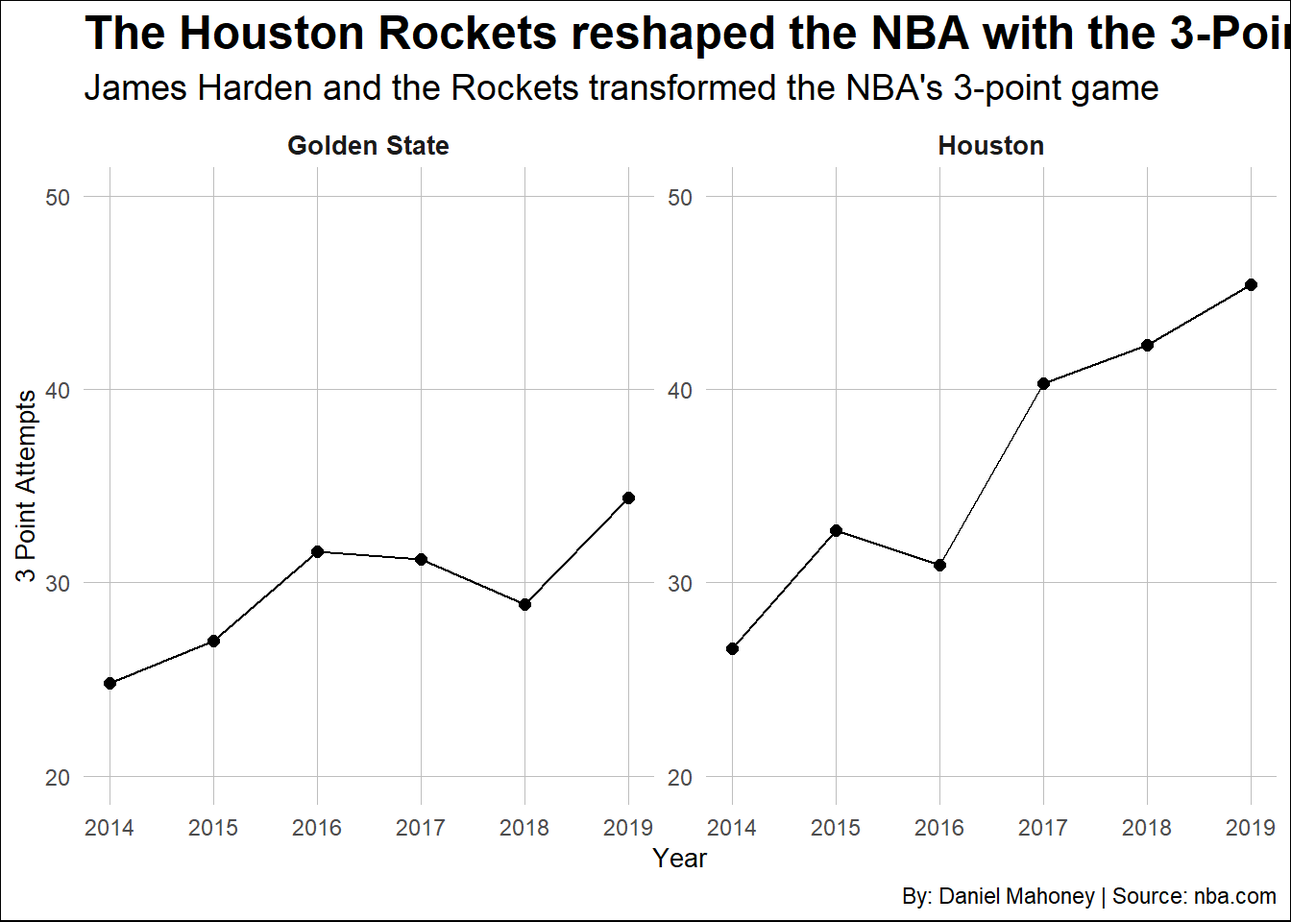
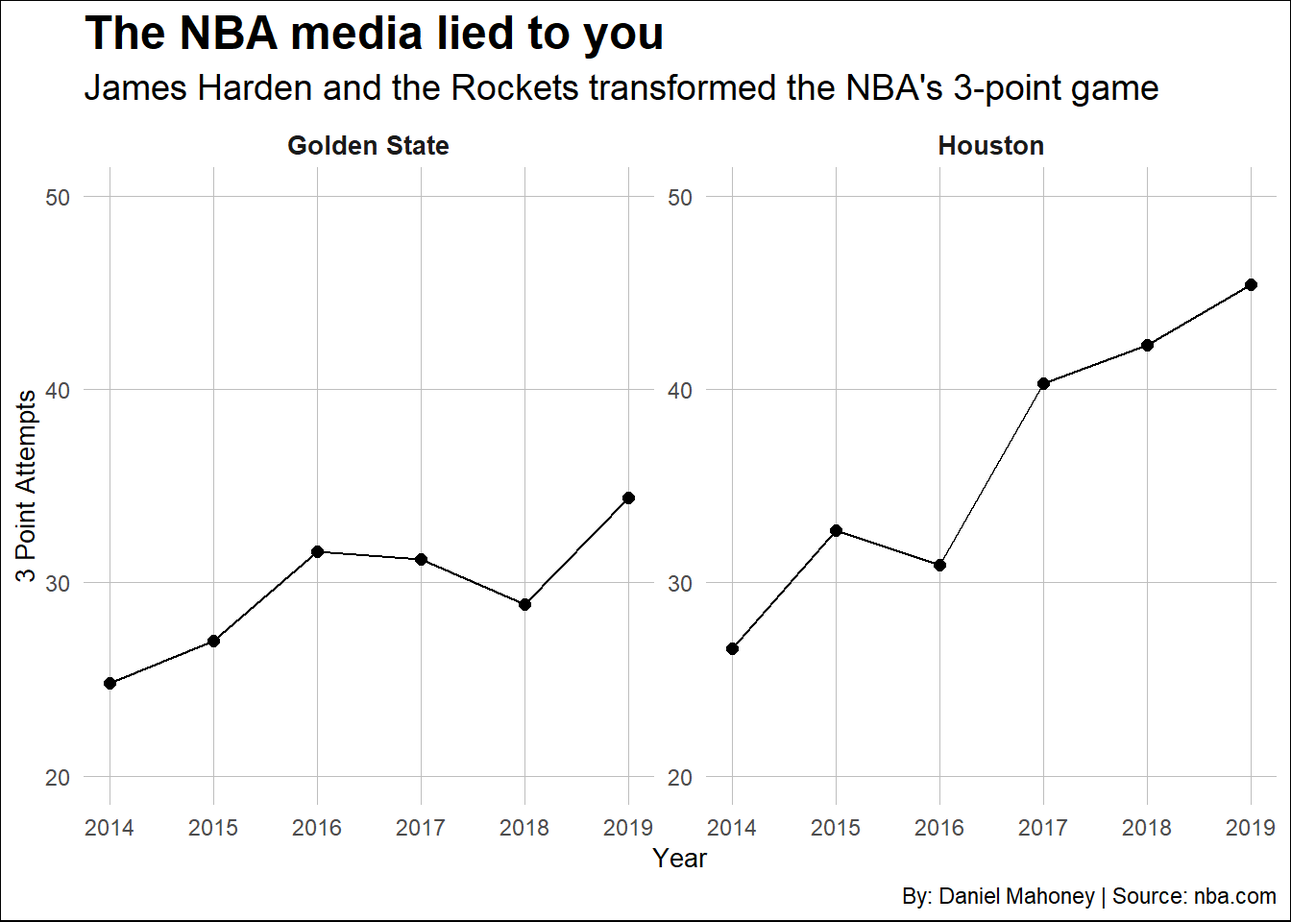
update index.html

Changed region(s): [[0.125, 0.0, 1.0, 0.0625]]

diff --git a/posts/three-point-revolution/index.html b/posts/three-point-revolution/index.html
@@ -220,7 +220,7 @@ pre > code.sourceCode > span > a:first-child::before { text-decoration: underlin
 <span id="cb1-18"><a href="#cb1-18" aria-hidden="true" tabindex="-1"></a>  <span class="fu">scale_y_continuous</span>(<span class="at">limits =</span> <span class="fu">c</span>(<span class="dv">20</span>, <span class="dv">50</span>)) <span class="sc">+</span>  </span>
 <span id="cb1-19"><a href="#cb1-19" aria-hidden="true" tabindex="-1"></a>  <span class="fu">facet_wrap</span>(<span class="sc">~</span>Team, <span class="at">scales =</span> <span class="st">"free_y"</span>, <span class="at">ncol =</span> <span class="dv">4</span>) <span class="sc">+</span>  </span>
 <span id="cb1-20"><a href="#cb1-20" aria-hidden="true" tabindex="-1"></a>  <span class="fu">labs</span>(</span>
-<span id="cb1-21"><a href="#cb1-21" aria-hidden="true" tabindex="-1"></a>    <span class="at">title =</span> <span class="st">"The Houston Rockets reshaped the NBA with the 3-Point Revolution"</span>,</span>
+<span id="cb1-21"><a href="#cb1-21" aria-hidden="true" tabindex="-1"></a>    <span class="at">title =</span> <span class="st">"The NBA media lied to you"</span>,</span>
 <span id="cb1-22"><a href="#cb1-22" aria-hidden="true" tabindex="-1"></a>    <span class="at">subtitle =</span> <span class="st">"James Harden and the Rockets transformed the NBA's 3-point game"</span>,</span>
 <span id="cb1-23"><a href="#cb1-23" aria-hidden="true" tabindex="-1"></a>    <span class="at">y =</span> <span class="st">"3 Point Attempts"</span>, <span class="at">x =</span> <span class="st">"Year"</span>,</span>
 <span id="cb1-24"><a href="#cb1-24" aria-hidden="true" tabindex="-1"></a>    <span class="at">caption =</span> <span class="st">"By: Daniel Mahoney | Source: nba.com"</span></span>
@@ -296,7 +296,7 @@ pre > code.sourceCode > span > a:first-child::before { text-decoration: underlin
 <span id="cb2-38"><a href="#cb2-38" aria-hidden="true" tabindex="-1"></a>  <span class="fu">labs</span>(</span>
 <span id="cb2-39"><a href="#cb2-39" aria-hidden="true" tabindex="-1"></a>    <span class="at">y =</span> <span class="st">"Three Point Attempts"</span>, <span class="at">x =</span> <span class="st">"Year"</span>,</span>
 <span id="cb2-40"><a href="#cb2-40" aria-hidden="true" tabindex="-1"></a>    <span class="at">title =</span> <span class="st">"No one took threes like the Houston Rockets"</span>,</span>
-<span id="cb2-41"><a href="#cb2-41" aria-hidden="true" tabindex="-1"></a>    <span class="at">subtitle =</span> <span class="st">"In the years 2014 to 2019, the Rockets were 1st in 3-pointers attempts five times in six years"</span>,</span>
+<span id="cb2-41"><a href="#cb2-41" aria-hidden="true" tabindex="-1"></a>    <span class="at">subtitle =</span> <span class="st">"The whole NBA followed the Houston Rockets"</span>,</span>
 <span id="cb2-42"><a href="#cb2-42" aria-hidden="true" tabindex="-1"></a>    <span class="at">caption =</span> <span class="st">"Source: basketball reference | By Daniel Mahoney"</span>,  </span>
 <span id="cb2-43"><a href="#cb2-43" aria-hidden="true" tabindex="-1"></a>    <span class="at">color =</span> <span class="st">"Label"</span>  </span>
 <span id="cb2-44"><a href="#cb2-44" aria-hidden="true" tabindex="-1"></a>  ) <span class="sc">+</span></span>
@@ -400,61 +400,96 @@ pre > code.sourceCode > span > a:first-child::before { text-decoration: underlin
 <details class="code-fold">
 <summary>Code</summary>
 <div class="sourceCode cell-code" id="cb3"><pre class="sourceCode r code-with-copy"><code class="sourceCode r"><span id="cb3-1"><a href="#cb3-1" aria-hidden="true" tabindex="-1"></a>GoodTeams <span class="ot">&lt;-</span> logs24 <span class="sc">|&gt;</span>  </span>
-<span id="cb3-2"><a href="#cb3-2" aria-hidden="true" tabindex="-1"></a>  <span class="fu">filter</span>(Wins <span class="sc">&gt;</span> <span class="dv">49</span>) <span class="sc">%&gt;%</span></span>
-<span id="cb3-3"><a href="#cb3-3" aria-hidden="true" tabindex="-1"></a>  <span class="fu">group_by</span>(Team)</span>
-<span id="cb3-4"><a href="#cb3-4" aria-hidden="true" tabindex="-1"></a><span class="fu">ggplot</span>() <span class="sc">+</span></span>
-<span id="cb3-5"><a href="#cb3-5" aria-hidden="true" tabindex="-1"></a>  <span class="fu">geom_point</span>(</span>
-<span id="cb3-6"><a href="#cb3-6" aria-hidden="true" tabindex="-1"></a>    <span class="at">data =</span> logs24,</span>
-<span id="cb3-7"><a href="#cb3-7" aria-hidden="true" tabindex="-1"></a>    <span class="fu">aes</span>(</span>
-<span id="cb3-8"><a href="#cb3-8" aria-hidden="true" tabindex="-1"></a>      <span class="at">x =</span> <span class="st">`</span><span class="at">3P Attempts</span><span class="st">`</span>, </span>
-<span id="cb3-9"><a href="#cb3-9" aria-hidden="true" tabindex="-1"></a>      <span class="at">y =</span> <span class="st">`</span><span class="at">3P Percentage</span><span class="st">`</span>, </span>
-<span id="cb3-10"><a href="#cb3-10" aria-hidden="true" tabindex="-1"></a>      <span class="at">size =</span> Wins</span>
-<span id="cb3-11"><a href="#cb3-11" aria-hidden="true" tabindex="-1"></a>    ),</span>
-<span id="cb3-12"><a href="#cb3-12" aria-hidden="true" tabindex="-1"></a>    <span class="at">alpha =</span> .<span class="dv">3</span></span>
-<span id="cb3-13"><a href="#cb3-13" aria-hidden="true" tabindex="-1"></a>  ) <span class="sc">+</span> </span>
-<span id="cb3-14"><a href="#cb3-14" aria-hidden="true" tabindex="-1"></a>  <span class="fu">geom_point</span>(</span>
-<span id="cb3-15"><a href="#cb3-15" aria-hidden="true" tabindex="-1"></a>    <span class="at">data =</span> GoodTeams, </span>
-<span id="cb3-16"><a href="#cb3-16" aria-hidden="true" tabindex="-1"></a>    <span class="fu">aes</span>(</span>
-<span id="cb3-17"><a href="#cb3-17" aria-hidden="true" tabindex="-1"></a>      <span class="at">x =</span> <span class="st">`</span><span class="at">3P Attempts</span><span class="st">`</span>, </span>
-<span id="cb3-18"><a href="#cb3-18" aria-hidden="true" tabindex="-1"></a>      <span class="at">y =</span> <span class="st">`</span><span class="at">3P Percentage</span><span class="st">`</span>, </span>
-<span id="cb3-19"><a href="#cb3-19" aria-hidden="true" tabindex="-1"></a>      <span class="at">size =</span> Wins</span>
-<span id="cb3-20"><a href="#cb3-20" aria-hidden="true" tabindex="-1"></a>    ),</span>
-<span id="cb3-21"><a href="#cb3-21" aria-hidden="true" tabindex="-1"></a>    <span class="at">alpha =</span> .<span class="dv">3</span>,</span>
-<span id="cb3-22"><a href="#cb3-22" aria-hidden="true" tabindex="-1"></a>    <span class="at">color =</span> <span class="st">"blue"</span></span>
-<span id="cb3-23"><a href="#cb3-23" aria-hidden="true" tabindex="-1"></a>  ) <span class="sc">+</span> </span>
-<span id="cb3-24"><a href="#cb3-24" aria-hidden="true" tabindex="-1"></a>  <span class="fu">geom_text_repel</span>(</span>
-<span id="cb3-25"><a href="#cb3-25" aria-hidden="true" tabindex="-1"></a>    <span class="at">data =</span> GoodTeams,  </span>
-<span id="cb3-26"><a href="#cb3-26" aria-hidden="true" tabindex="-1"></a>    <span class="fu">aes</span>(</span>
-<span id="cb3-27"><a href="#cb3-27" aria-hidden="true" tabindex="-1"></a>      <span class="at">x =</span> <span class="st">`</span><span class="at">3P Attempts</span><span class="st">`</span>, </span>
-<span id="cb3-28"><a href="#cb3-28" aria-hidden="true" tabindex="-1"></a>      <span class="at">y =</span> <span class="st">`</span><span class="at">3P Percentage</span><span class="st">`</span>, </span>
-<span id="cb3-29"><a href="#cb3-29" aria-hidden="true" tabindex="-1"></a>      <span class="at">label =</span> Team</span>
-<span id="cb3-30"><a href="#cb3-30" aria-hidden="true" tabindex="-1"></a>    )</span>
-<span id="cb3-31"><a href="#cb3-31" aria-hidden="true" tabindex="-1"></a>  ) <span class="sc">+</span></span>
-<span id="cb3-32"><a href="#cb3-32" aria-hidden="true" tabindex="-1"></a>  <span class="fu">scale_size_continuous</span>(</span>
-<span id="cb3-33"><a href="#cb3-33" aria-hidden="true" tabindex="-1"></a>    <span class="at">breaks =</span> <span class="fu">c</span>(<span class="dv">45</span>, <span class="dv">50</span>, <span class="dv">55</span>, <span class="dv">60</span>),</span>
-<span id="cb3-34"><a href="#cb3-34" aria-hidden="true" tabindex="-1"></a>    <span class="at">labels =</span> <span class="fu">c</span>(<span class="st">"45"</span>, <span class="st">"50"</span>, <span class="st">"55"</span>, <span class="st">"60"</span>),</span>
-<span id="cb3-35"><a href="#cb3-35" aria-hidden="true" tabindex="-1"></a>    <span class="at">range =</span> <span class="fu">c</span>(<span class="dv">2</span>, <span class="dv">6</span>)</span>
-<span id="cb3-36"><a href="#cb3-36" aria-hidden="true" tabindex="-1"></a>  ) <span class="sc">+</span></span>
-<span id="cb3-37"><a href="#cb3-37" aria-hidden="true" tabindex="-1"></a>  <span class="fu">labs</span>(</span>
-<span id="cb3-38"><a href="#cb3-38" aria-hidden="true" tabindex="-1"></a>    <span class="at">x =</span> <span class="st">"Three Point Attempts"</span>,</span>
-<span id="cb3-39"><a href="#cb3-39" aria-hidden="true" tabindex="-1"></a>    <span class="at">y =</span> <span class="st">"Three Point Percentage"</span>,</span>
-<span id="cb3-40"><a href="#cb3-40" aria-hidden="true" tabindex="-1"></a>    <span class="at">title =</span> <span class="st">"While the NBA has evolved, the best teams still have their own identity"</span>,</span>
-<span id="cb3-41"><a href="#cb3-41" aria-hidden="true" tabindex="-1"></a>    <span class="at">subtitle =</span> <span class="st">"The most successful NBA teams have an identity shaped by their players"</span>,</span>
-<span id="cb3-42"><a href="#cb3-42" aria-hidden="true" tabindex="-1"></a>    <span class="at">caption =</span> <span class="st">"Source: nba.com | By Daniel Mahoney"</span>,</span>
-<span id="cb3-43"><a href="#cb3-43" aria-hidden="true" tabindex="-1"></a>    <span class="at">size =</span> <span class="st">"Wins"</span></span>
-<span id="cb3-44"><a href="#cb3-44" aria-hidden="true" tabindex="-1"></a>  ) <span class="sc">+</span></span>
-<span id="cb3-45"><a href="#cb3-45" aria-hidden="true" tabindex="-1"></a>  <span class="fu">guides</span>(<span class="at">size =</span> <span class="fu">guide_legend</span>(<span class="at">title =</span> <span class="st">"Wins"</span>, <span class="at">override.aes =</span> <span class="fu">list</span>(<span class="at">color =</span> <span class="st">"#333333"</span>))) <span class="sc">+</span></span>
-<span id="cb3-46"><a href="#cb3-46" aria-hidden="true" tabindex="-1"></a>  <span class="fu">theme_minimal</span>() <span class="sc">+</span></span>
-<span id="cb3-47"><a href="#cb3-47" aria-hidden="true" tabindex="-1"></a>  <span class="fu">theme</span>(</span>
-<span id="cb3-48"><a href="#cb3-48" aria-hidden="true" tabindex="-1"></a>    <span class="at">plot.title =</span> <span class="fu">element_text</span>(<span class="at">size =</span> <span class="dv">18</span>, <span class="at">face =</span> <span class="st">"bold"</span>), </span>
-<span id="cb3-49"><a href="#cb3-49" aria-hidden="true" tabindex="-1"></a>    <span class="at">plot.background =</span> <span class="fu">element_rect</span>(<span class="at">fill =</span> <span class="st">"white"</span>),</span>
-<span id="cb3-50"><a href="#cb3-50" aria-hidden="true" tabindex="-1"></a>    <span class="at">plot.subtitle =</span> <span class="fu">element_text</span>(<span class="at">size =</span> <span class="dv">14</span>),  </span>
-<span id="cb3-51"><a href="#cb3-51" aria-hidden="true" tabindex="-1"></a>    <span class="at">axis.title =</span> <span class="fu">element_text</span>(<span class="at">size =</span> <span class="dv">10</span>),  </span>
-<span id="cb3-52"><a href="#cb3-52" aria-hidden="true" tabindex="-1"></a>    <span class="at">axis.text =</span> <span class="fu">element_text</span>(<span class="at">size =</span> <span class="dv">9</span>),  </span>
-<span id="cb3-53"><a href="#cb3-53" aria-hidden="true" tabindex="-1"></a>    <span class="at">strip.text =</span> <span class="fu">element_text</span>(<span class="at">size =</span> <span class="dv">10</span>, <span class="at">face =</span> <span class="st">"bold"</span>),  </span>
-<span id="cb3-54"><a href="#cb3-54" aria-hidden="true" tabindex="-1"></a>    <span class="at">panel.grid.minor =</span> <span class="fu">element_blank</span>(),  </span>
-<span id="cb3-55"><a href="#cb3-55" aria-hidden="true" tabindex="-1"></a>    <span class="at">panel.grid.major =</span> <span class="fu">element_line</span>(<span class="at">color =</span> <span class="st">"gray"</span>, <span class="at">size =</span> <span class="fl">0.2</span>)  </span>
-<span id="cb3-56"><a href="#cb3-56" aria-hidden="true" tabindex="-1"></a>  )</span></code><button title="Copy to Clipboard" class="code-copy-button"><i class="bi"></i></button></pre></div>
+<span id="cb3-2"><a href="#cb3-2" aria-hidden="true" tabindex="-1"></a>  <span class="fu">filter</span>(Wins <span class="sc">&gt;</span> <span class="dv">49</span>)</span>
+<span id="cb3-3"><a href="#cb3-3" aria-hidden="true" tabindex="-1"></a>Boston <span class="ot">&lt;-</span> GoodTeams <span class="sc">|&gt;</span>  </span>
+<span id="cb3-4"><a href="#cb3-4" aria-hidden="true" tabindex="-1"></a>  <span class="fu">filter</span>(Wins <span class="sc">&gt;</span> <span class="dv">62</span>)</span>
+<span id="cb3-5"><a href="#cb3-5" aria-hidden="true" tabindex="-1"></a><span class="fu">ggplot</span>() <span class="sc">+</span></span>
+<span id="cb3-6"><a href="#cb3-6" aria-hidden="true" tabindex="-1"></a>  <span class="fu">geom_point</span>(</span>
+<span id="cb3-7"><a href="#cb3-7" aria-hidden="true" tabindex="-1"></a>    <span class="at">data =</span> logs24,</span>
+<span id="cb3-8"><a href="#cb3-8" aria-hidden="true" tabindex="-1"></a>    <span class="fu">aes</span>(</span>
+<span id="cb3-9"><a href="#cb3-9" aria-hidden="true" tabindex="-1"></a>      <span class="at">x =</span> <span class="st">`</span><span class="at">3P Attempts</span><span class="st">`</span>, </span>
+<span id="cb3-10"><a href="#cb3-10" aria-hidden="true" tabindex="-1"></a>      <span class="at">y =</span> <span class="st">`</span><span class="at">3P Percentage</span><span class="st">`</span>, </span>
+<span id="cb3-11"><a href="#cb3-11" aria-hidden="true" tabindex="-1"></a>      <span class="at">size =</span> Wins</span>
+<span id="cb3-12"><a href="#cb3-12" aria-hidden="true" tabindex="-1"></a>    ),</span>
+<span id="cb3-13"><a href="#cb3-13" aria-hidden="true" tabindex="-1"></a>    <span class="at">alpha =</span> .<span class="dv">3</span></span>
+<span id="cb3-14"><a href="#cb3-14" aria-hidden="true" tabindex="-1"></a>  ) <span class="sc">+</span> </span>
+<span id="cb3-15"><a href="#cb3-15" aria-hidden="true" tabindex="-1"></a>  <span class="fu">geom_point</span>(</span>
+<span id="cb3-16"><a href="#cb3-16" aria-hidden="true" tabindex="-1"></a>    <span class="at">data =</span> GoodTeams, </span>
+<span id="cb3-17"><a href="#cb3-17" aria-hidden="true" tabindex="-1"></a>    <span class="fu">aes</span>(</span>
+<span id="cb3-18"><a href="#cb3-18" aria-hidden="true" tabindex="-1"></a>      <span class="at">x =</span> <span class="st">`</span><span class="at">3P Attempts</span><span class="st">`</span>, </span>
+<span id="cb3-19"><a href="#cb3-19" aria-hidden="true" tabindex="-1"></a>      <span class="at">y =</span> <span class="st">`</span><span class="at">3P Percentage</span><span class="st">`</span>, </span>
+<span id="cb3-20"><a href="#cb3-20" aria-hidden="true" tabindex="-1"></a>      <span class="at">size =</span> Wins</span>
+<span id="cb3-21"><a href="#cb3-21" aria-hidden="true" tabindex="-1"></a>    ),</span>
+<span id="cb3-22"><a href="#cb3-22" aria-hidden="true" tabindex="-1"></a>    <span class="at">alpha =</span> .<span class="dv">3</span>,</span>
+<span id="cb3-23"><a href="#cb3-23" aria-hidden="true" tabindex="-1"></a>    <span class="at">color =</span> <span class="st">"blue"</span></span>
+<span id="cb3-24"><a href="#cb3-24" aria-hidden="true" tabindex="-1"></a>  ) <span class="sc">+</span> </span>
+<span id="cb3-25"><a href="#cb3-25" aria-hidden="true" tabindex="-1"></a>  <span class="fu">geom_point</span>(</span>
+<span id="cb3-26"><a href="#cb3-26" aria-hidden="true" tabindex="-1"></a>    <span class="at">data =</span> Boston, </span>
+<span id="cb3-27"><a href="#cb3-27" aria-hidden="true" tabindex="-1"></a>    <span class="fu">aes</span>(</span>
+<span id="cb3-28"><a href="#cb3-28" aria-hidden="true" tabindex="-1"></a>      <span class="at">x =</span> <span class="st">`</span><span class="at">3P Attempts</span><span class="st">`</span>, </span>
+<span id="cb3-29"><a href="#cb3-29" aria-hidden="true" tabindex="-1"></a>      <span class="at">y =</span> <span class="st">`</span><span class="at">3P Percentage</span><span class="st">`</span>, </span>
+<span id="cb3-30"><a href="#cb3-30" aria-hidden="true" tabindex="-1"></a>      <span class="at">size =</span> Wins</span>
+<span id="cb3-31"><a href="#cb3-31" aria-hidden="true" tabindex="-1"></a>    ),</span>
+<span id="cb3-32"><a href="#cb3-32" aria-hidden="true" tabindex="-1"></a>    <span class="at">alpha =</span> .<span class="dv">3</span>,  </span>
+<span id="cb3-33"><a href="#cb3-33" aria-hidden="true" tabindex="-1"></a>    <span class="at">color =</span> <span class="st">"green"</span></span>
+<span id="cb3-34"><a href="#cb3-34" aria-hidden="true" tabindex="-1"></a>  ) <span class="sc">+</span> </span>
+<span id="cb3-35"><a href="#cb3-35" aria-hidden="true" tabindex="-1"></a>  <span class="fu">geom_text_repel</span>(</span>
+<span id="cb3-36"><a href="#cb3-36" aria-hidden="true" tabindex="-1"></a>    <span class="at">data =</span> GoodTeams,  </span>
+<span id="cb3-37"><a href="#cb3-37" aria-hidden="true" tabindex="-1"></a>    <span class="fu">aes</span>(</span>
+<span id="cb3-38"><a href="#cb3-38" aria-hidden="true" tabindex="-1"></a>      <span class="at">x =</span> <span class="st">`</span><span class="at">3P Attempts</span><span class="st">`</span>, </span>
+<span id="cb3-39"><a href="#cb3-39" aria-hidden="true" tabindex="-1"></a>      <span class="at">y =</span> <span class="st">`</span><span class="at">3P Percentage</span><span class="st">`</span>, </span>
+<span id="cb3-40"><a href="#cb3-40" aria-hidden="true" tabindex="-1"></a>      <span class="at">label =</span> Team</span>
+<span id="cb3-41"><a href="#cb3-41" aria-hidden="true" tabindex="-1"></a>    ),</span>
+<span id="cb3-42"><a href="#cb3-42" aria-hidden="true" tabindex="-1"></a>    <span class="at">box.padding =</span> <span class="fl">0.5</span>,</span>
+<span id="cb3-43"><a href="#cb3-43" aria-hidden="true" tabindex="-1"></a>    <span class="at">point.padding =</span> <span class="fl">0.5</span>,</span>
+<span id="cb3-44"><a href="#cb3-44" aria-hidden="true" tabindex="-1"></a>    <span class="at">max.overlaps =</span> <span class="dv">10</span></span>
+<span id="cb3-45"><a href="#cb3-45" aria-hidden="true" tabindex="-1"></a>  ) <span class="sc">+</span></span>
+<span id="cb3-46"><a href="#cb3-46" aria-hidden="true" tabindex="-1"></a>  <span class="fu">scale_size_continuous</span>(</span>
+<span id="cb3-47"><a href="#cb3-47" aria-hidden="true" tabindex="-1"></a>    <span class="at">breaks =</span> <span class="fu">c</span>(<span class="dv">45</span>, <span class="dv">50</span>, <span class="dv">55</span>, <span class="dv">60</span>),</span>
+<span id="cb3-48"><a href="#cb3-48" aria-hidden="true" tabindex="-1"></a>    <span class="at">labels =</span> <span class="fu">c</span>(<span class="st">"45"</span>, <span class="st">"50"</span>, <span class="st">"55"</span>, <span class="st">"60"</span>),</span>
+<span id="cb3-49"><a href="#cb3-49" aria-hidden="true" tabindex="-1"></a>    <span class="at">range =</span> <span class="fu">c</span>(<span class="dv">2</span>, <span class="dv">6</span>)</span>
+<span id="cb3-50"><a href="#cb3-50" aria-hidden="true" tabindex="-1"></a>  ) <span class="sc">+</span></span>
+<span id="cb3-51"><a href="#cb3-51" aria-hidden="true" tabindex="-1"></a>  <span class="fu">labs</span>(</span>
+<span id="cb3-52"><a href="#cb3-52" aria-hidden="true" tabindex="-1"></a>    <span class="at">x =</span> <span class="st">"Three Point Attempts"</span>,</span>
+<span id="cb3-53"><a href="#cb3-53" aria-hidden="true" tabindex="-1"></a>    <span class="at">y =</span> <span class="st">"Three Point Percentage"</span>,</span>
+<span id="cb3-54"><a href="#cb3-54" aria-hidden="true" tabindex="-1"></a>    <span class="at">title =</span> <span class="st">"While NBA teams are taking more 3s"</span>,</span>
+<span id="cb3-55"><a href="#cb3-55" aria-hidden="true" tabindex="-1"></a>    <span class="at">subtitle =</span> <span class="st">"The most successful NBA teams have an identity shaped by their players"</span>,</span>
+<span id="cb3-56"><a href="#cb3-56" aria-hidden="true" tabindex="-1"></a>    <span class="at">caption =</span> <span class="st">"Source: nba.com | By Daniel Mahoney"</span>,</span>
+<span id="cb3-57"><a href="#cb3-57" aria-hidden="true" tabindex="-1"></a>    <span class="at">size =</span> <span class="st">"Wins"</span></span>
+<span id="cb3-58"><a href="#cb3-58" aria-hidden="true" tabindex="-1"></a>  ) <span class="sc">+</span></span>
+<span id="cb3-59"><a href="#cb3-59" aria-hidden="true" tabindex="-1"></a>  <span class="fu">geom_text</span>(</span>
+<span id="cb3-60"><a href="#cb3-60" aria-hidden="true" tabindex="-1"></a>    <span class="fu">aes</span>(<span class="at">x =</span> <span class="fl">42.3</span>, <span class="at">y =</span> <span class="fl">38.3</span>, <span class="at">label =</span> <span class="st">"NBA"</span>),</span>
+<span id="cb3-61"><a href="#cb3-61" aria-hidden="true" tabindex="-1"></a>    <span class="at">color =</span> <span class="st">"black"</span>,</span>
+<span id="cb3-62"><a href="#cb3-62" aria-hidden="true" tabindex="-1"></a>    <span class="at">size =</span> <span class="dv">4</span>,</span>
+<span id="cb3-63"><a href="#cb3-63" aria-hidden="true" tabindex="-1"></a>    <span class="at">vjust =</span> <span class="sc">-</span><span class="dv">1</span>,  </span>
+<span id="cb3-64"><a href="#cb3-64" aria-hidden="true" tabindex="-1"></a>    <span class="at">hjust =</span> <span class="fl">0.5</span></span>
+<span id="cb3-65"><a href="#cb3-65" aria-hidden="true" tabindex="-1"></a>  ) <span class="sc">+</span></span>
+<span id="cb3-66"><a href="#cb3-66" aria-hidden="true" tabindex="-1"></a>  <span class="fu">geom_text</span>(</span>
+<span id="cb3-67"><a href="#cb3-67" aria-hidden="true" tabindex="-1"></a>    <span class="fu">aes</span>(<span class="at">x =</span> <span class="fl">42.3</span>, <span class="at">y =</span> <span class="fl">38.1</span>, <span class="at">label =</span> <span class="st">"Champs"</span>),</span>
+<span id="cb3-68"><a href="#cb3-68" aria-hidden="true" tabindex="-1"></a>    <span class="at">color =</span> <span class="st">"black"</span>,</span>
+<span id="cb3-69"><a href="#cb3-69" aria-hidden="true" tabindex="-1"></a>    <span class="at">size =</span> <span class="dv">4</span>,</span>
+<span id="cb3-70"><a href="#cb3-70" aria-hidden="true" tabindex="-1"></a>    <span class="at">vjust =</span> <span class="sc">-</span><span class="dv">1</span>,  </span>
+<span id="cb3-71"><a href="#cb3-71" aria-hidden="true" tabindex="-1"></a>    <span class="at">hjust =</span> <span class="fl">0.5</span></span>
+<span id="cb3-72"><a href="#cb3-72" aria-hidden="true" tabindex="-1"></a>  ) <span class="sc">+</span></span>
+<span id="cb3-73"><a href="#cb3-73" aria-hidden="true" tabindex="-1"></a>  <span class="fu">geom_text</span>(</span>
+<span id="cb3-74"><a href="#cb3-74" aria-hidden="true" tabindex="-1"></a>    <span class="fu">aes</span>(<span class="at">x =</span> <span class="fl">40.7</span>, <span class="at">y =</span> <span class="fl">38.3</span>, <span class="at">label =</span> <span class="st">"Most 3s"</span>),</span>
+<span id="cb3-75"><a href="#cb3-75" aria-hidden="true" tabindex="-1"></a>    <span class="at">color =</span> <span class="st">"black"</span>,</span>
+<span id="cb3-76"><a href="#cb3-76" aria-hidden="true" tabindex="-1"></a>    <span class="at">size =</span> <span class="dv">4</span>,</span>
+<span id="cb3-77"><a href="#cb3-77" aria-hidden="true" tabindex="-1"></a>    <span class="at">vjust =</span> <span class="sc">-</span><span class="dv">1</span>,  </span>
+<span id="cb3-78"><a href="#cb3-78" aria-hidden="true" tabindex="-1"></a>    <span class="at">hjust =</span> <span class="fl">0.5</span></span>
+<span id="cb3-79"><a href="#cb3-79" aria-hidden="true" tabindex="-1"></a>  ) <span class="sc">+</span></span>
+<span id="cb3-80"><a href="#cb3-80" aria-hidden="true" tabindex="-1"></a>  <span class="fu">guides</span>(<span class="at">size =</span> <span class="fu">guide_legend</span>(<span class="at">title =</span> <span class="st">"Wins"</span>, <span class="at">override.aes =</span> <span class="fu">list</span>(<span class="at">color =</span> <span class="st">"#333333"</span>))) <span class="sc">+</span></span>
+<span id="cb3-81"><a href="#cb3-81" aria-hidden="true" tabindex="-1"></a>  <span class="fu">theme_minimal</span>() <span class="sc">+</span></span>
+<span id="cb3-82"><a href="#cb3-82" aria-hidden="true" tabindex="-1"></a>  <span class="fu">theme</span>(</span>
+<span id="cb3-83"><a href="#cb3-83" aria-hidden="true" tabindex="-1"></a>    <span class="at">plot.title =</span> <span class="fu">element_text</span>(<span class="at">size =</span> <span class="dv">18</span>, <span class="at">face =</span> <span class="st">"bold"</span>), </span>
+<span id="cb3-84"><a href="#cb3-84" aria-hidden="true" tabindex="-1"></a>    <span class="at">plot.background =</span> <span class="fu">element_rect</span>(<span class="at">fill =</span> <span class="st">"white"</span>),</span>
+<span id="cb3-85"><a href="#cb3-85" aria-hidden="true" tabindex="-1"></a>    <span class="at">plot.subtitle =</span> <span class="fu">element_text</span>(<span class="at">size =</span> <span class="dv">14</span>),  </span>
+<span id="cb3-86"><a href="#cb3-86" aria-hidden="true" tabindex="-1"></a>    <span class="at">axis.title =</span> <span class="fu">element_text</span>(<span class="at">size =</span> <span class="dv">10</span>),  </span>
+<span id="cb3-87"><a href="#cb3-87" aria-hidden="true" tabindex="-1"></a>    <span class="at">axis.text =</span> <span class="fu">element_text</span>(<span class="at">size =</span> <span class="dv">9</span>),  </span>
+<span id="cb3-88"><a href="#cb3-88" aria-hidden="true" tabindex="-1"></a>    <span class="at">strip.text =</span> <span class="fu">element_text</span>(<span class="at">size =</span> <span class="dv">10</span>, <span class="at">face =</span> <span class="st">"bold"</span>),  </span>
+<span id="cb3-89"><a href="#cb3-89" aria-hidden="true" tabindex="-1"></a>    <span class="at">panel.grid.minor =</span> <span class="fu">element_blank</span>(),  </span>
+<span id="cb3-90"><a href="#cb3-90" aria-hidden="true" tabindex="-1"></a>    <span class="at">panel.grid.major =</span> <span class="fu">element_line</span>(<span class="at">color =</span> <span class="st">"gray"</span>, <span class="at">size =</span> <span class="fl">0.2</span>)  </span>
+<span id="cb3-91"><a href="#cb3-91" aria-hidden="true" tabindex="-1"></a>  )</span></code><button title="Copy to Clipboard" class="code-copy-button"><i class="bi"></i></button></pre></div>
 </details>
 <div class="cell-output-display">
 <div>

diff --git a/index.html b/index.html
@@ -205,7 +205,7 @@ window.Quarto = {
 
 <div class="quarto-listing quarto-listing-container-default" id="listing-listing">
 <div class="list quarto-listing-default">
-<div class="quarto-post image-right" data-index="0" data-categories="YmFza2V0YmFsbCxuYmEsc3RlcGg=" data-listing-date-sort="1733205600000" data-listing-file-modified-sort="1733437976052" data-listing-date-modified-sort="NaN" data-listing-reading-time-sort="14" data-listing-word-count-sort="2619">
+<div class="quarto-post image-right" data-index="0" data-categories="YmFza2V0YmFsbCxuYmEsc3RlcGg=" data-listing-date-sort="1733205600000" data-listing-file-modified-sort="1733545970151" data-listing-date-modified-sort="NaN" data-listing-reading-time-sort="15" data-listing-word-count-sort="2815">
 <div class="thumbnail">
 <p><a href="./posts/three-point-revolution/index.html" class="no-external"></a></p><a href="./posts/three-point-revolution/index.html" class="no-external">
 <p><img loading="lazy" src="./posts/three-point-revolution/image.png" class="thumbnail-image"></p>
